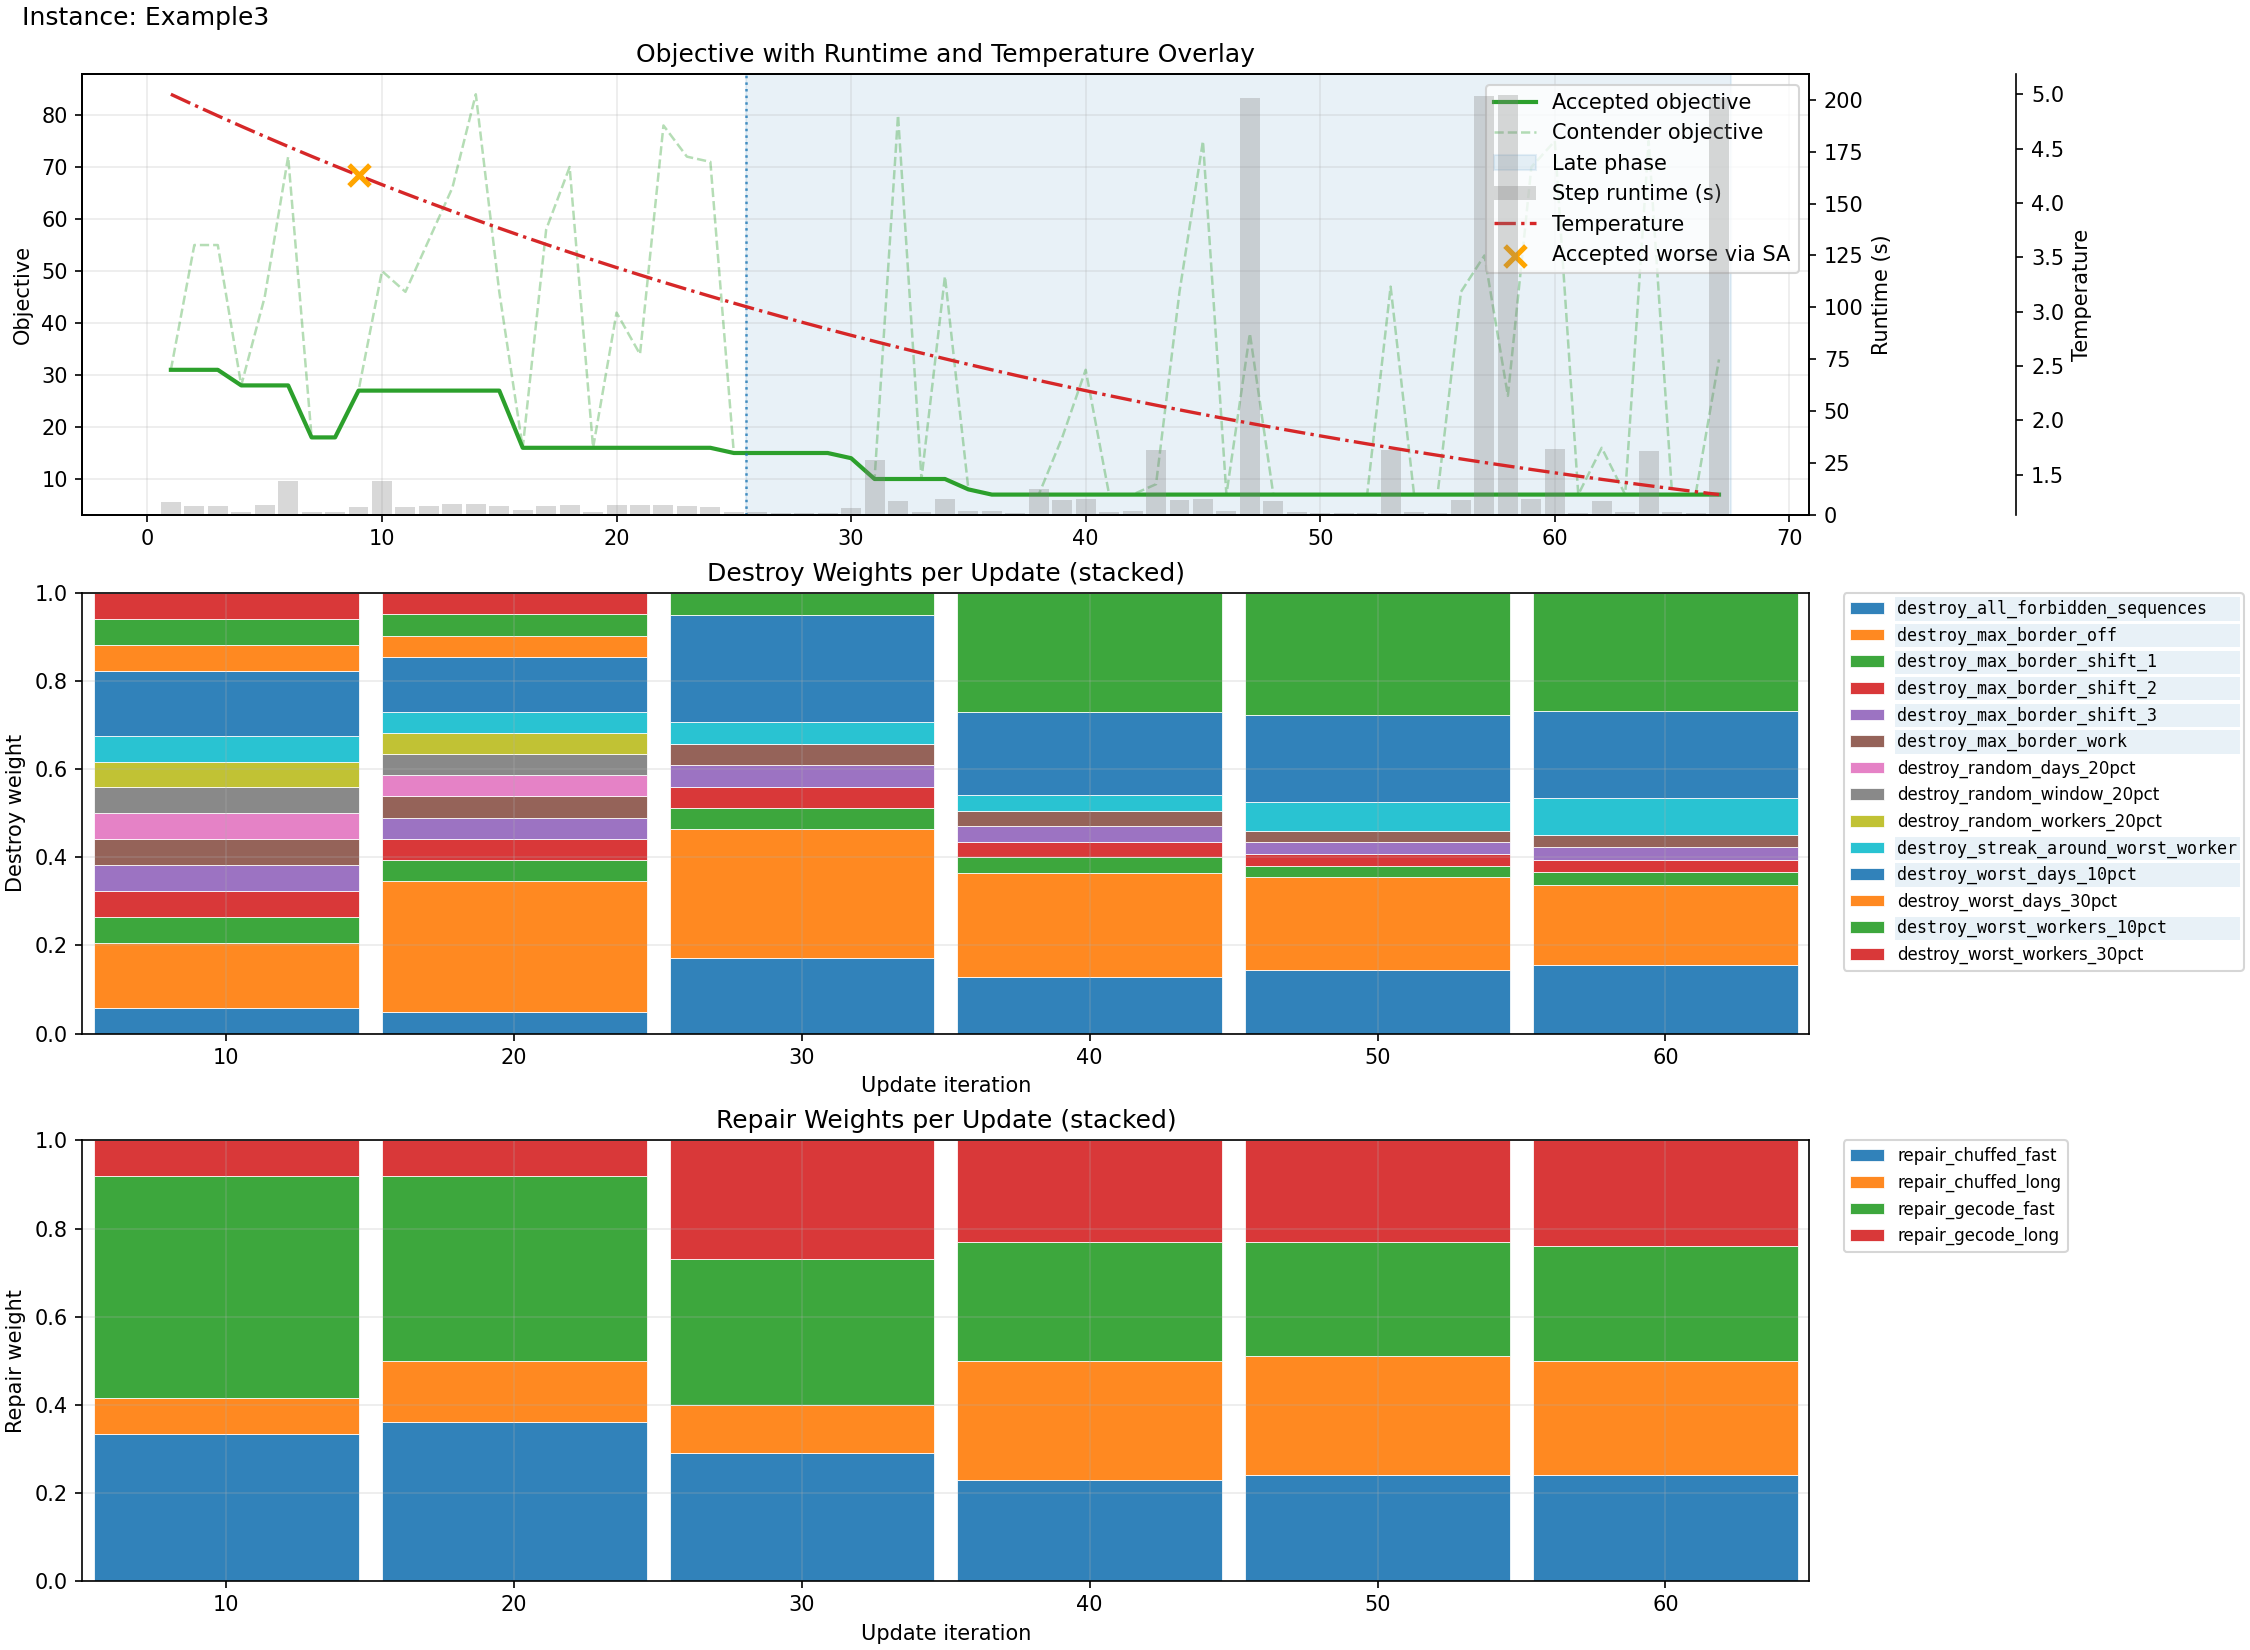
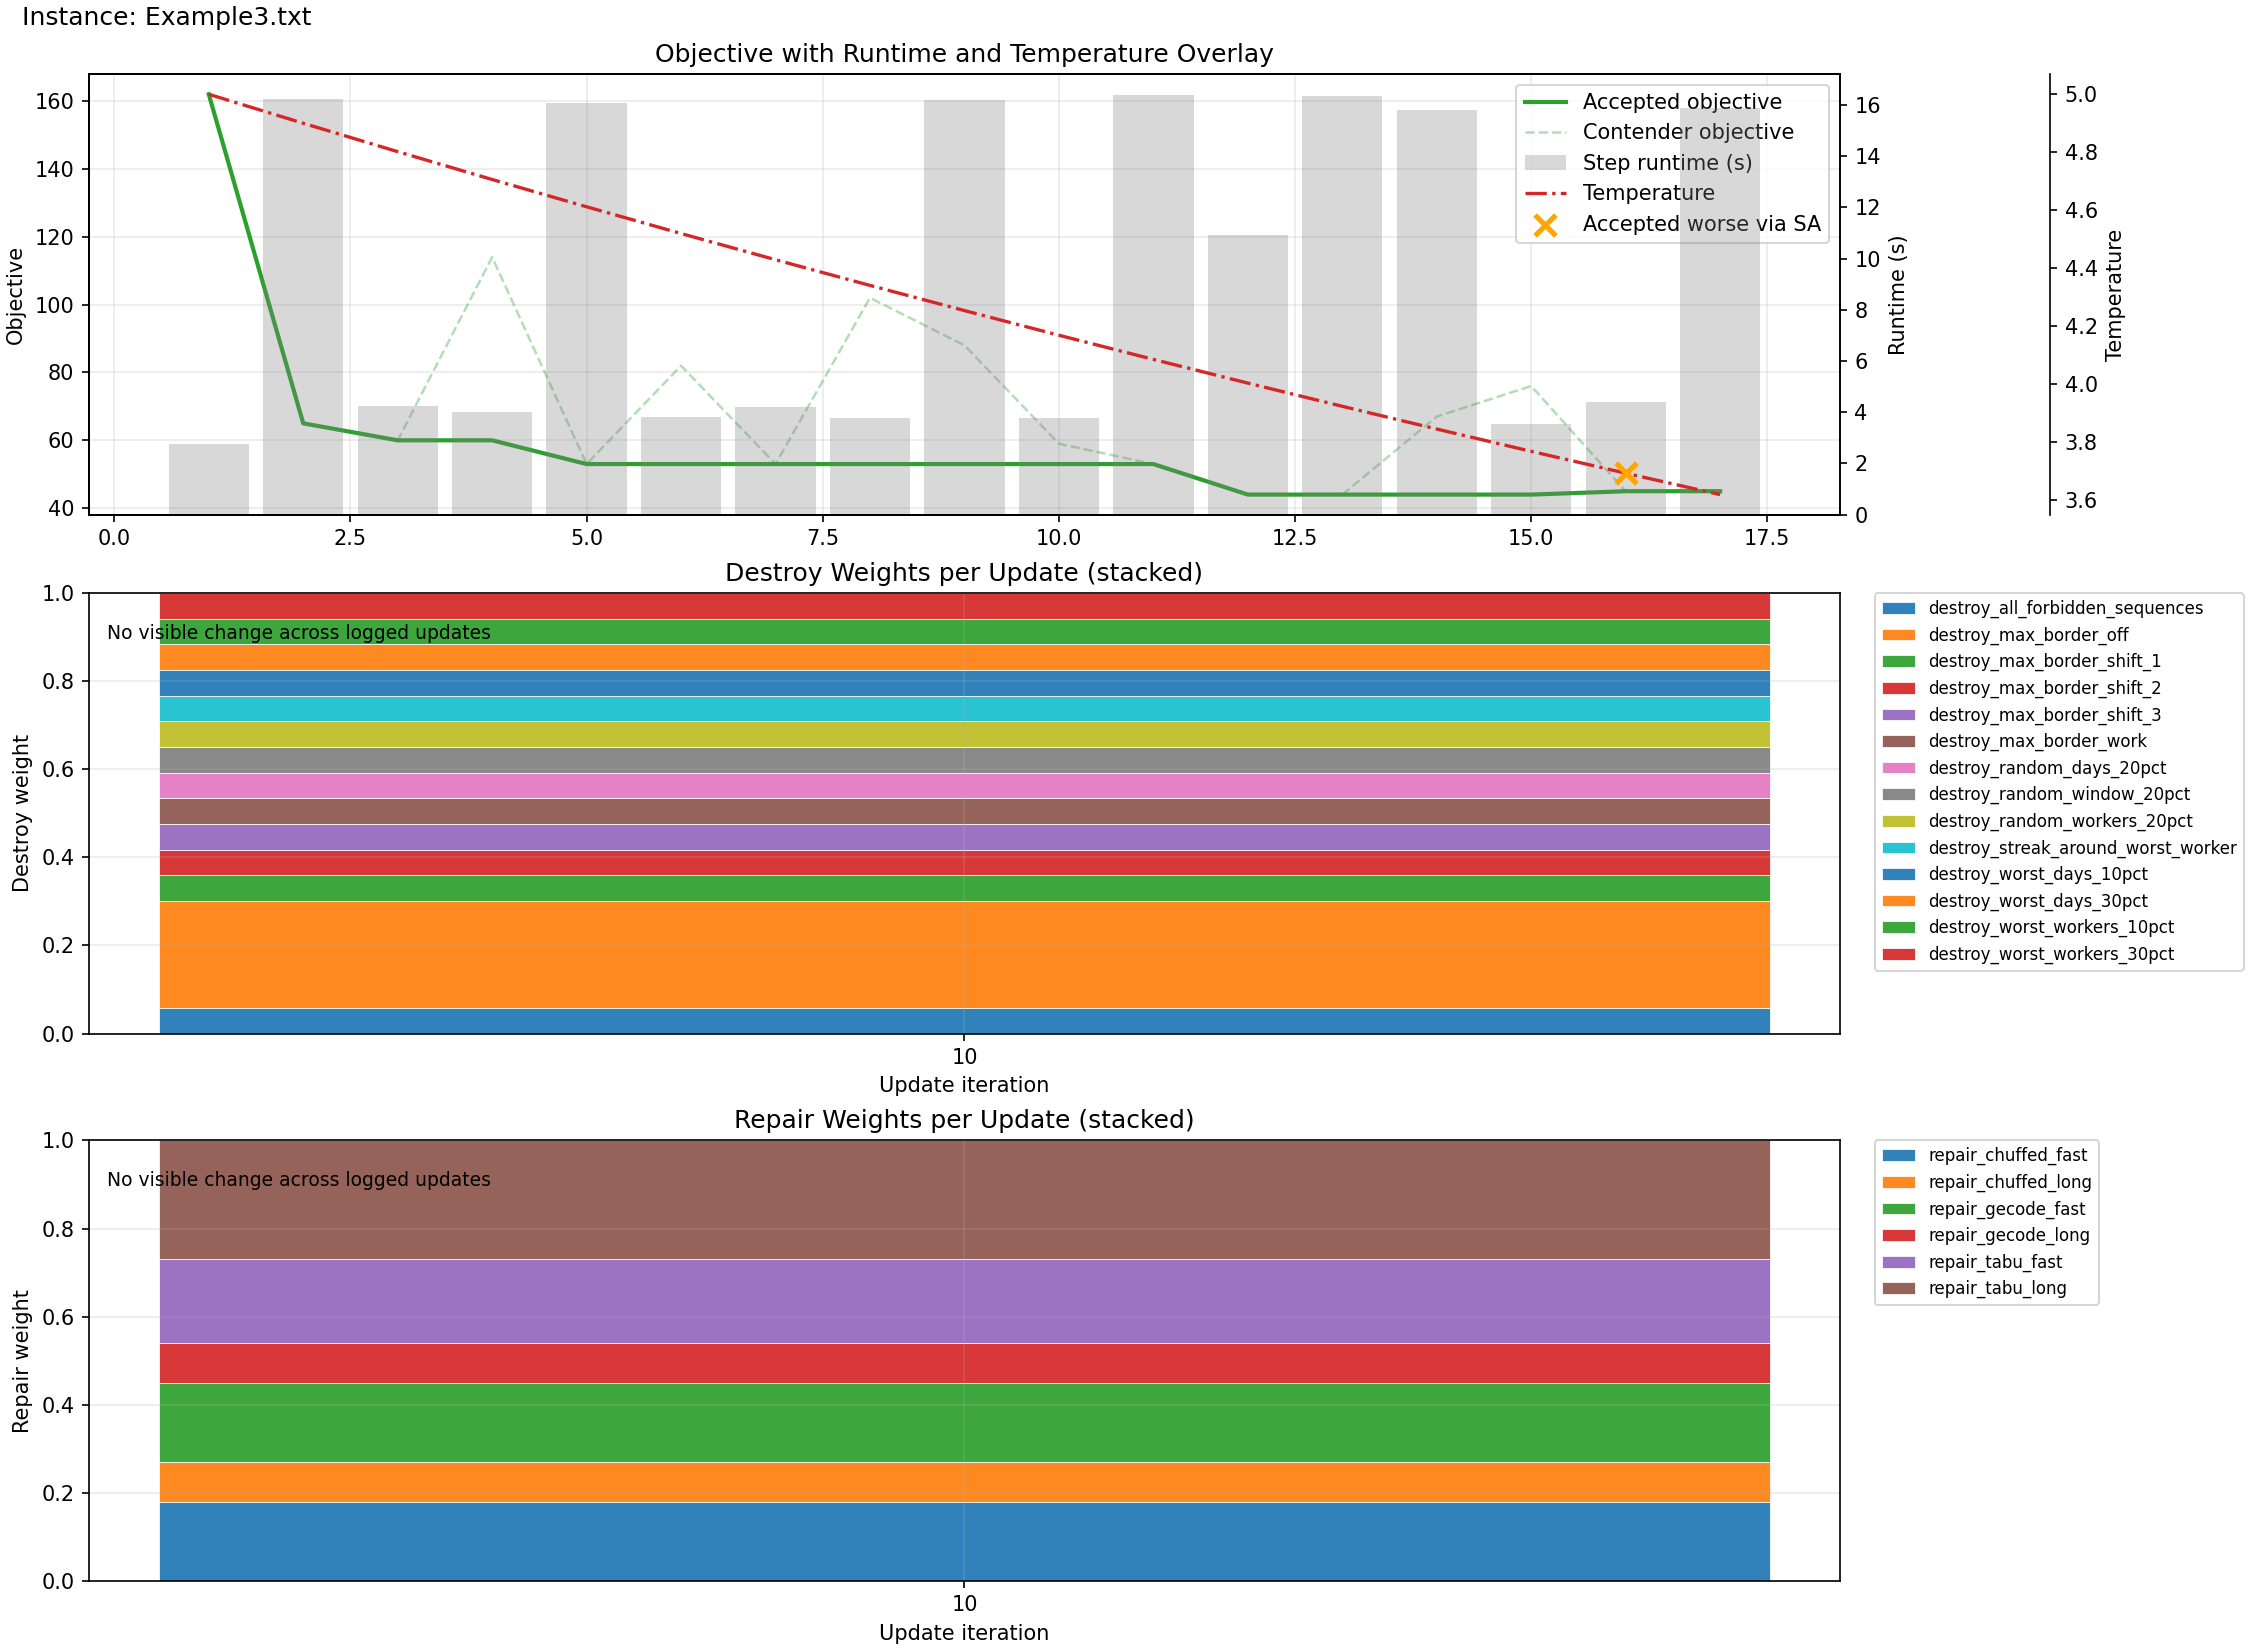
added tabu search as new baseline added repair_tabu operators

diff --git a/multiarm_bandit.py b/multiarm_bandit.py
@@ -9,6 +9,7 @@ from time import perf_counter
 from typing import Any, Callable, Dict, Optional
 
 from rws import RWS, rws_lns
+from tabu import tabu as run_tabu
 
 
 def _default_score_function(
@@ -58,15 +59,15 @@ class MBandit:
     reaction_factor: float = 0.2
     beta_softmax: float = 1.5
     equal_move_allowed_freezeout: int = 15
-    late_phase_weight: int = 100
+    late_phase_weight: int = 1000
     late_phase_strict_improvement: bool = True
     
     ##### Simulated annealing for accepting subpar solutions
     annealing_temperature: float = 5
     initial_annealing_temperature: float = field(init=False)
-    min_annealing_temperature: float = 0.5
-    time_decay_annealing: float = 0.975
-    binomial_p: float = 0.2
+    min_annealing_temperature: float = 1
+    time_decay_annealing: float = 0.985
+    binomial_p: float = 0.3
     reshuffle_before_exploration: bool = False
     reshuffle_only_in_early_phase: bool = False
 
@@ -83,8 +84,8 @@ class MBandit:
     exclude_in_late_phase_destroy: Dict[str, bool] = field(default_factory=dict)
     
     ######## Exploration
-    exploration_after_stagnation: int = 10
-    number_of_consecutive_explorations: int = 2
+    exploration_after_stagnation: int = 6
+    number_of_consecutive_explorations: int = 3
     destroy_exploration_operator: Callable[[rws_lns], list[tuple[int, int]]] = field(init=False, repr=False)
     solver_name: str = "chuffed"
     exploratory_timeout_seconds: float = 50
@@ -98,7 +99,7 @@ class MBandit:
     operator_usage_counts: Dict[str, int] = field(init=False)
     
     ######## Tabu parameters
-    destroy_tabu_length: int = 10
+    destroy_tabu_length: int = 20
     destroy_tabu_history: deque[tuple[frozenset[int], frozenset[int]]] = field(
         init=False, repr=False
     )
@@ -161,7 +162,12 @@ class MBandit:
                     model_path=self.model_path,
                     solver_name=self.solver_name,
                     timeout_seconds=self.minizinc_timeout_seconds,
-                )
+                ),
+                "repair_tabu": _make_repair_tabu_operator(
+                    model_path=self.model_path,
+                    solver_name=self.solver_name,
+                    timeout_seconds=self.minizinc_timeout_seconds,
+                ),
             }
         for name in self.destroy_operators:
             self.exclude_in_late_phase_destroy.setdefault(name, False)
@@ -652,6 +658,77 @@ def _make_repair_operator(
     return _op
 
 
+def _make_repair_tabu_operator(
+    model_path: str | Path | None,
+    solver_name: str,
+    timeout_seconds: int,
+    tabu_length: int = 10,
+    max_neighbors: int = 64,
+    objective_tiebreak_timeout_seconds: int = 2,
+    objective_tiebreak_max_count: int = 10,
+) -> Callable[[rws_lns], None]:
+    """Create a tabu-based repair operator honoring `lns.fixed_vars` as hard-fixed cells."""
+
+    def _op(lns: rws_lns) -> None:
+        from rws_mzk_pipeline import build_rws_model_instance
+
+        multiplier = float(getattr(lns, "_repair_timeout_multiplier", 1.0))
+        scaled_timeout = max(1, int(math.ceil(timeout_seconds * multiplier)))
+        seed_schedule = lns.contender if lns.contender is not None else lns.incumbent
+        fixed_cells = set(lns.fixed_vars.keys())
+
+        current_instance_id = id(lns.instance)
+        if getattr(lns, "_cached_instance_id", None) != current_instance_id:
+            lns._cached_model_instances.clear()
+            lns._cached_instance_id = current_instance_id
+
+        resolved_model_path = (
+            Path(__file__).resolve().parent / "rws_instance.mzn"
+            if model_path is None
+            else Path(model_path)
+        )
+        if not resolved_model_path.is_absolute():
+            resolved_model_path = Path(__file__).resolve().parent / resolved_model_path
+        cache_key = (resolved_model_path, solver_name, False)
+        model_instance = lns._cached_model_instances.get(cache_key)
+        if model_instance is None:
+            model_instance, _ = build_rws_model_instance(
+                lns=lns,
+                model_path=resolved_model_path,
+                solver_name=solver_name,
+                sloppy=False,
+            )
+            lns._cached_model_instances[cache_key] = model_instance
+
+        best_schedule = run_tabu(
+            instance=lns.instance,
+            schedule=seed_schedule,
+            fixed_cells=fixed_cells,
+            tabu_length=max(1, int(tabu_length)),
+            timeout=float(scaled_timeout),
+            max_neighbors=max(1, int(max_neighbors)),
+            use_objective_tiebreaker=True,
+            model_path=model_path,
+            model_instance=model_instance,
+            solver_name=solver_name,
+            objective_tiebreak_timeout_seconds=max(
+                1, min(int(objective_tiebreak_timeout_seconds), scaled_timeout)
+            ),
+            objective_tiebreak_max_count=max(0, int(objective_tiebreak_max_count)),
+            show_progress=False,
+        )
+        contender_objective = best_schedule.objective_value(
+            model_path=model_path,
+            model_instance=model_instance,
+            solver_name=solver_name,
+            timeout_seconds=scaled_timeout,
+        )
+        lns.contender = best_schedule
+        lns.contender_objective = float(contender_objective)
+
+    return _op
+
+
 def _ceil_fraction_count(total: int, fraction: float) -> int:
     """Convert a fraction to a bounded ceiling count."""
     if fraction <= 0:
@@ -1028,7 +1105,10 @@ if __name__ == "__main__":
         "repair_gecode_fast": _make_repair_operator(model_path, "gecode", 3),
         "repair_chuffed_long": _make_repair_operator(model_path, "chuffed", 15),
         "repair_gecode_long": _make_repair_operator(model_path, "gecode", 15),
+        "repair_tabu_fast": _make_repair_tabu_operator(model_path, "chuffed", 3),
+        "repair_tabu_long": _make_repair_tabu_operator(model_path, "chuffed", 15),
     }
+    
 
 
     max_border_ops = _make_destroy_max_border_operators(instance)
@@ -1053,7 +1133,7 @@ if __name__ == "__main__":
         model_path=model_path,
         destroy_operators=destroy_ops,
         repair_operators=repair_ops,
-        global_timeout_seconds=1000,
+        global_timeout_seconds=150,
         minizinc_timeout_seconds=60
 
     )
@@ -1067,12 +1147,42 @@ if __name__ == "__main__":
         if name in mab.exclude_in_late_phase_destroy:
             mab.exclude_in_late_phase_destroy[name] = True
 ##############################################################
-    #in the beginning favour fast repairs
-    for repair_op in mab.weights_repair.keys():
-        if 'fast' in repair_op:
-            mab.weights_repair[repair_op] = 0.4
-        elif 'long' in repair_op:
-            mab.weights_repair[repair_op] = 0.1
+    # In the beginning, favor fast repairs (including tabu_fast).
+    fast_slow_ratio = 2.0
+    fast_ops = [name for name in mab.weights_repair if "fast" in name]
+    slow_ops = [name for name in mab.weights_repair if "long" in name]
+    other_ops = [name for name in mab.weights_repair if name not in set(fast_ops) | set(slow_ops)]
+    if fast_ops and slow_ops:
+        fast_mass = fast_slow_ratio / (fast_slow_ratio + 1.0)
+        slow_mass = 1.0 / (fast_slow_ratio + 1.0)
+    elif fast_ops:
+        fast_mass = 1.0
+        slow_mass = 0.0
+    elif slow_ops:
+        fast_mass = 0.0
+        slow_mass = 1.0
+    else:
+        fast_mass = 0.0
+        slow_mass = 0.0
+    other_mass = 0.0
+    fast_each = (fast_mass / len(fast_ops)) if fast_ops else 0.0
+    slow_each = (slow_mass / len(slow_ops)) if slow_ops else 0.0
+    other_each = (other_mass / len(other_ops)) if other_ops else 0.0
+    for repair_op in fast_ops:
+        mab.weights_repair[repair_op] = fast_each
+    for repair_op in slow_ops:
+        mab.weights_repair[repair_op] = slow_each
+    for repair_op in other_ops:
+        mab.weights_repair[repair_op] = other_each
+    if sum(mab.weights_repair.values()) <= 0.0:
+        equal = 1.0 / len(mab.weights_repair)
+        for repair_op in mab.weights_repair:
+            mab.weights_repair[repair_op] = equal
+            
+    print("Initial repair operators:")
+    for name in sorted(mab.weights_repair):
+        print(f"  {name}: weight={mab.weights_repair[name]:.3f}")
+
 
     print(f"Loaded instance: {instance_path}")
     print("Initial schedule:")

diff --git a/tabu.py b/tabu.py
@@ -86,9 +86,11 @@ def tabu(
     use_objective_tiebreaker: bool = False,
     model_path: str | Path | None = None,
     model_instance: object | None = None,
-    solver_name: str = "chuffed",
+    solver_name: str = "gecode",
     objective_tiebreak_timeout_seconds: int = 2,
     objective_tiebreak_max_count: int = 10,
+    fixed_cells: set[tuple[int, int]] | None = None,
+    show_progress: bool = True,
 ) -> RWS.Schedule:
     if objective_tiebreak_max_count < 0:
         raise ValueError("objective_tiebreak_max_count must be >= 0")
@@ -99,7 +101,23 @@ def tabu(
         return best
 
     current = _copy_schedule(best)
-    current_score = best_score
+    fixed = set(fixed_cells or set())
+    n_workers = instance.num_workers
+    n_days = instance.num_days
+    n_shifts = len(instance.shift_names)
+    for day, worker in fixed:
+        if not (0 <= day < n_days and 0 <= worker < n_workers):
+            raise ValueError(
+                f"fixed cell {(day, worker)} is out of bounds for {n_days} days x {n_workers} workers"
+            )
+    mutable_cells = [
+        (day, worker)
+        for day in range(n_days)
+        for worker in range(n_workers)
+        if (day, worker) not in fixed
+    ]
+    if not mutable_cells:
+        return best
 
     start = perf_counter()
     rng = random.Random()
@@ -110,9 +128,10 @@ def tabu(
     objective_cache: dict[tuple[tuple[int, ...], ...], float] = {}
     iteration = 0
 
-    n_workers = instance.num_workers
-    n_days = instance.num_days
-    n_shifts = len(instance.shift_names)
+    can_shift = n_shifts > 1 and len(mutable_cells) >= 1
+    can_swap = len(mutable_cells) >= 2
+    if not can_shift and not can_swap:
+        return best
 
     while perf_counter() - start < timeout and best_score > 0:
         best_candidate = None
@@ -122,20 +141,21 @@ def tabu(
 
         for _ in range(max(1, max_neighbors)):
             candidate = _copy_schedule(current)
+            use_swap = False
+            if can_swap and can_shift:
+                use_swap = rng.random() < 0.5
+            elif can_swap:
+                use_swap = True
 
-            if rng.random() < 0.5:
-                worker_a = rng.randrange(n_workers)
-                day_a = rng.randrange(n_days)
-                worker_b = rng.randrange(n_workers)
-                day_b = rng.randrange(n_days)
+            if use_swap:
+                (day_a, worker_a), (day_b, worker_b) = rng.sample(mutable_cells, 2)
                 move = _canonical_swap_move(worker_a, day_a, worker_b, day_b)
                 _apply_swap(candidate, worker_a, day_a, worker_b, day_b)
             else:
-                worker = rng.randrange(n_workers)
-                day = rng.randrange(n_days)
-                old_shift = candidate.assignment[day][worker]
-                if n_shifts <= 1:
+                if not can_shift:
                     continue
+                day, worker = rng.choice(mutable_cells)
+                old_shift = candidate.assignment[day][worker]
                 # Shift ID 0 is included here and represents OFF/day-off.
                 new_shift = rng.randrange(n_shifts)
                 if new_shift == old_shift:
@@ -204,7 +224,7 @@ def tabu(
             best_score = current_score
         iteration += 1
         elapsed_now = perf_counter() - start
-        if elapsed_now >= next_report_at:
+        if show_progress and elapsed_now >= next_report_at:
             print(
                 f"\relapsed={elapsed_now:6.1f}s iter={iteration} count={best_score}",
                 end="",
@@ -212,7 +232,7 @@ def tabu(
             )
             next_report_at += 10.0
 
-    if iteration > 0:
+    if show_progress and iteration > 0:
         print()
 
     return best
